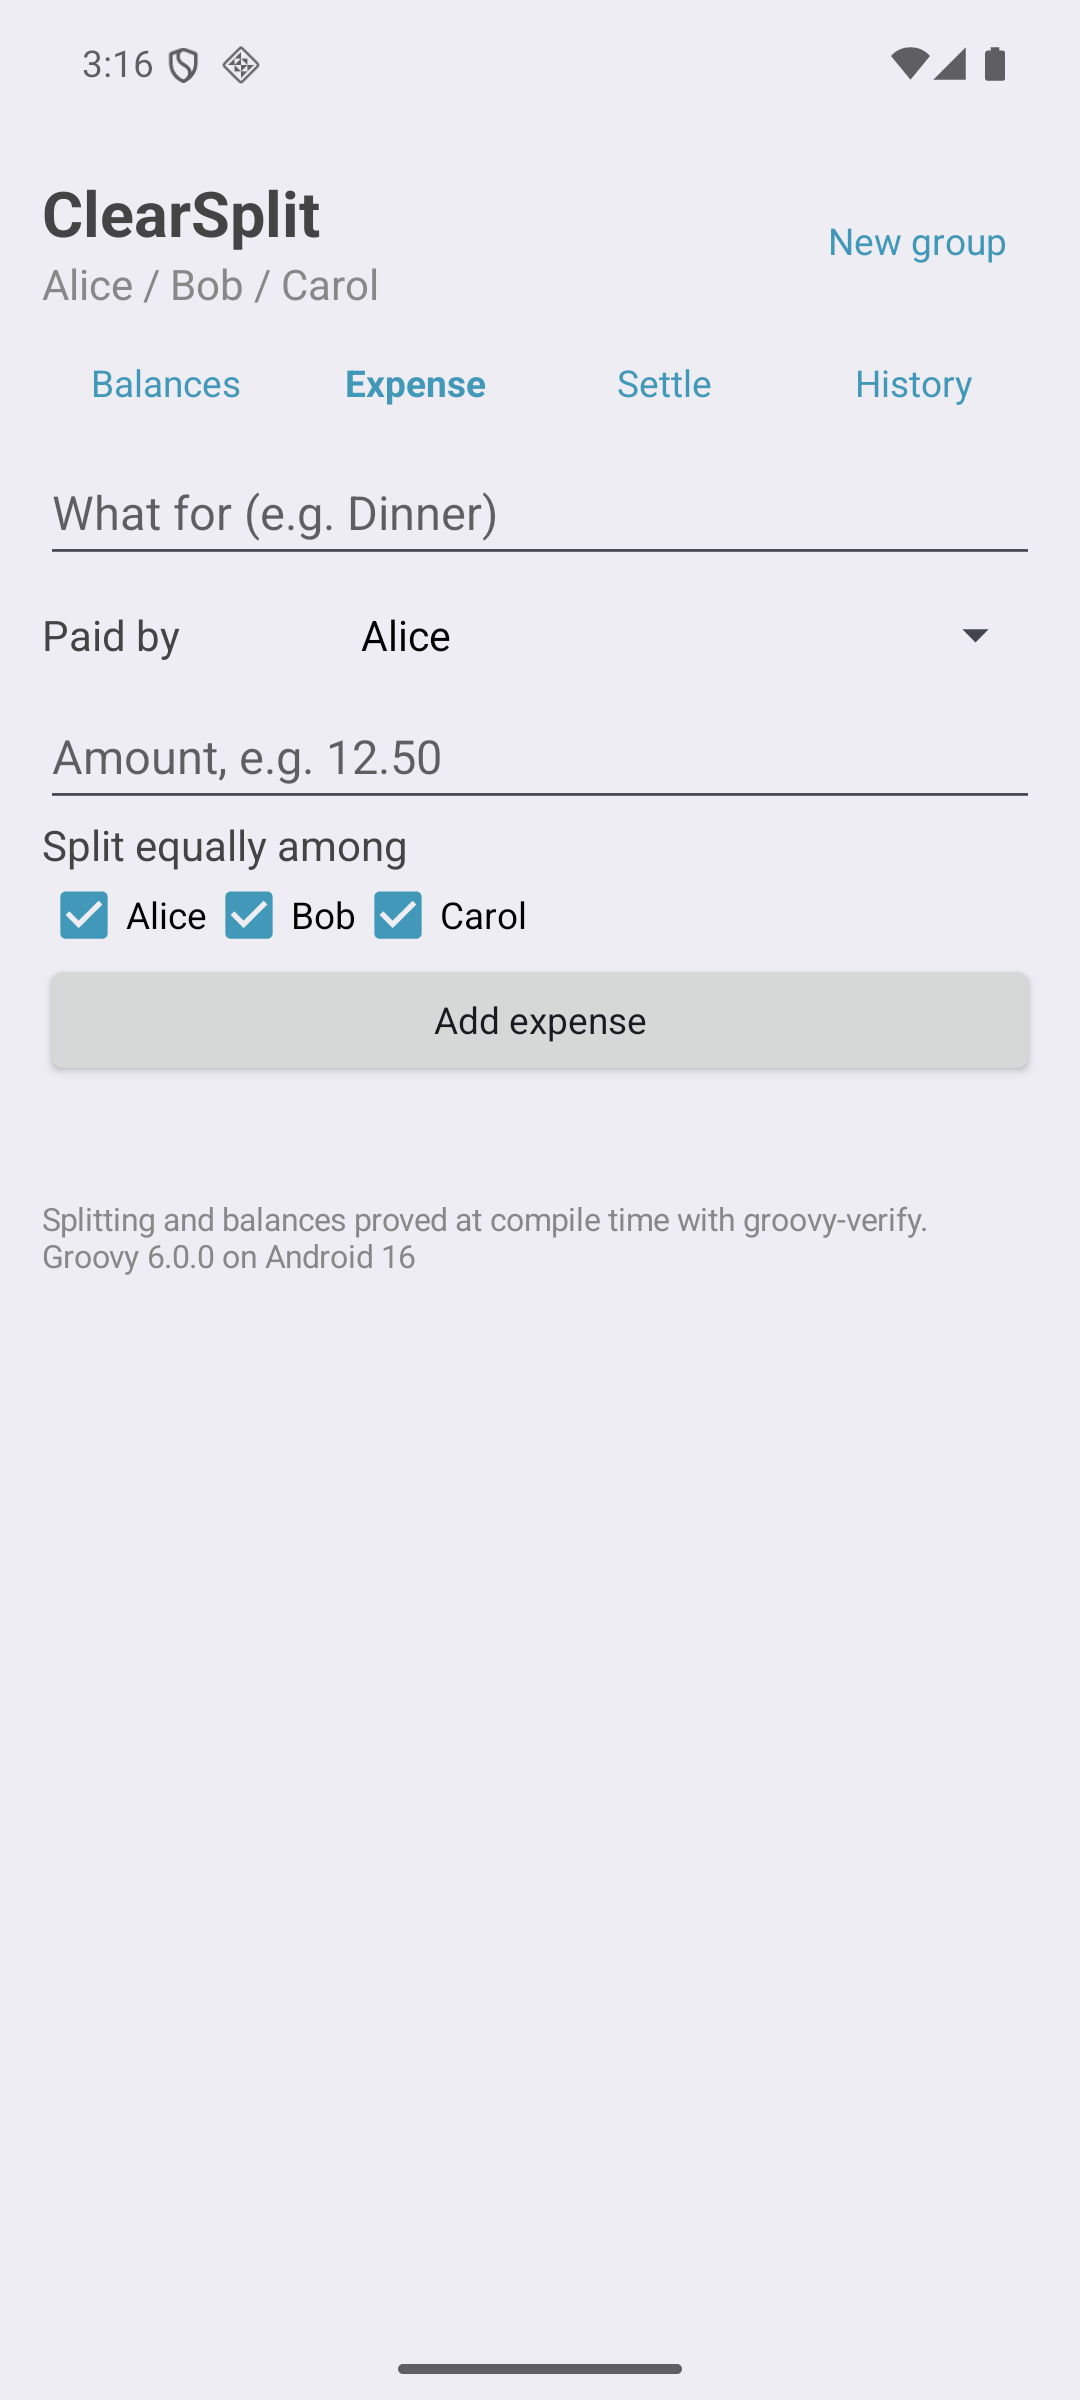
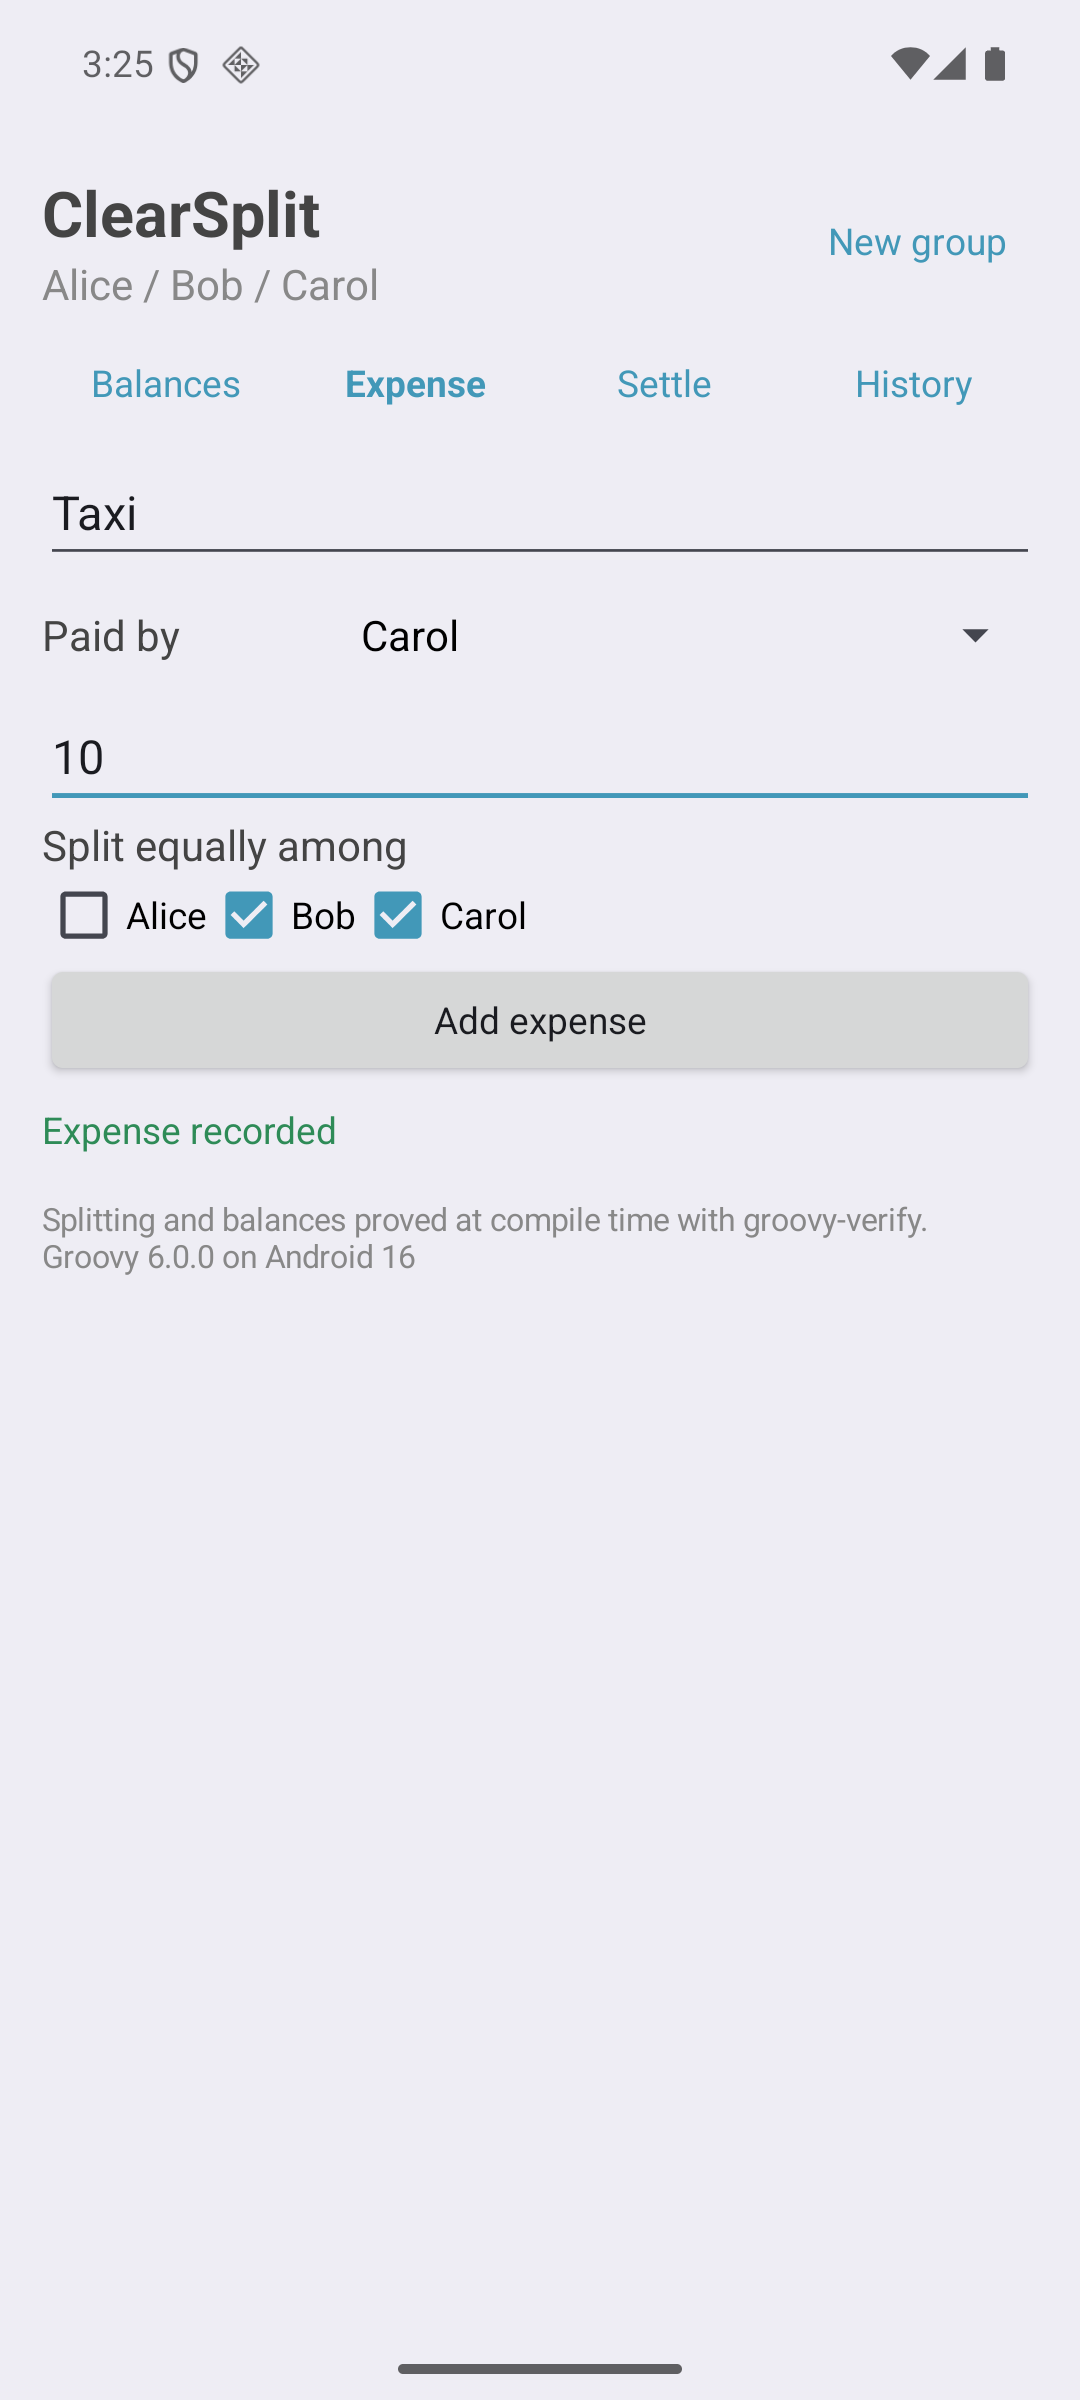
use later groovy-verify version

diff --git a/notes/groovy-verify-findings.md b/notes/groovy-verify-findings.md
@@ -1,6 +1,6 @@
 # groovy-verify findings from the ClearSplit port
 
-Found while proving the ClearSplit kernel, last checked against groovy-verify `ab2ac99`. Each repro
+Found while proving the ClearSplit kernel, checked against groovy-verify `ab2ac99`, and re-tested against `bf7b4eb` (items 1 and 2) `b0c7c4d` (item 3) and `5e29afb` (item 4). Each repro
 in `groovy-verify-repros/` is a standalone class: drop it into `core/src/main/groovy/clearsplit/`
 and compile.
 
@@ -12,8 +12,26 @@ across `v = bump(v)`. Outside a loop (`m5`) the same call is handled correctly.
 
 It surfaced as a vacuous proof. ClearSplit's conservation theorem, written as a fold
 `bal = afterExpenseRow(bal, …)`, still verified with its key hypothesis (each expense's shares add
-up to its amount) deleted. The kernel now folds in place without calls, and the mutation is
-correctly rejected.
+up to its amount) deleted. The kernel was rewritten to fold in place without calls, which
+rejected the mutation correctly, until the fixes below let it go back to the fold.
+
+**Fixed in groovy-verify `fb5ce5f`** ("a re-assigned array holds the new array"). Re-tested there:
+`m4` and `m5` are now reported (undecided, as `Could not decide … (solver: timeout)`, since the
+`.sum()` axioms are beyond the solver), and the rebuilt fold no longer verifies with its key
+hypothesis deleted. The fold with the hypothesis kept was also undecided there.
+
+**Completed in `bf7b4eb`** ("a sum fold over a call proves"). It fixed two causes: `new int[m]`'s
+zero sum needed induction, and a call's `result` clashed with a callee formal of the same name.
+`FoldConservation.groovy` now behaves as it should: `afterExpenseRow` and `foldWith` prove, while
+`foldWithout` (key hypothesis deleted) is reported rather than proved. The verified core is
+unchanged there. `Balances.of` is now the fold again, over `afterExpense` and `afterSettlement`,
+and still rejects the mutation.
+
+The clash was itself a soundness bug: when a contract related `result` to a same-named formal
+(`xs = grow(xs)`, or a local named like the formal), the assumption became a contradiction and
+everything after the call proved. It affected lists since groovy-verify Phase 225, and arrays from
+`fb5ce5f`. The ClearSplit core never had that shape: none of its verified methods calls another
+contracted method.
 
 ## 2. Completeness: an array field passed as an argument loses its length
 
@@ -23,13 +41,52 @@ callee's `a.size()` isn't tied to the field's `length`. Passing `this.data` or a
 the same way. ClearSplit's original mutable `Ledger` (class invariant `balances.sum() == 0`)
 couldn't call its pure step functions because of this.
 
+**Fixed in `768fe5f`** (class invariants at call sites, `this.f` arguments). Re-tested at
+`bf7b4eb`: all three calls now discharge `bump`'s precondition. Because `data` is re-assigned from
+the call, the exit invariant's `data != null` then needs `bump` to promise
+`result != null`; with that in its `@Ensures`, the repro compiles clean.
+
 ## 3. Completeness: a quantifier plus a sum in one callee precondition times out
 
 `QuantifierPlusSumCallSite.groovy`. A callee requiring `(0..<xs.length).every { xs[it] == 0 || xs[it] == 1 }`
 discharges, and one requiring `m <= xs.sum()` discharges, but `handOut`, requiring both, times out
 at a call site whose caller assumes exactly the same quantifier. The same mix proves fine as a
-loop invariant. This is why `Split.equally` is two loops in one method rather than two contracted
-helpers.
+loop invariant. This is why `Split.equally` was, for a while, two loops in one method rather than
+two contracted helpers.
+
+The repro is standalone (it includes the original `handOut`). At `bf7b4eb`, `handOut` itself
+proved, and only the call in `c` failed: `Could not decide precondition of handOut at this call
+site (… incomplete quantifiers)`. The cause was that no element bound ever reached a sum:
+`joined.sum() >= 0` from the 0/1 quantifier needs induction.
+
+**Fixed in `b0c7c4d`** ("an element bound bounds the sum"). An `every` that bounds each element by
+constants now bounds every sum over a range of the array. Re-tested there: the repro compiles
+clean. It still has teeth: calling `handOut(shares, joined, 1)` needs `1 <= joined.sum()`, which
+the 0/1 bound doesn't give, and that call is reported, not proved.
+`Split.equally` is back to calling `baseShares` and `handOut`.
+
+## 4. Completeness: a call's precondition times out where the same assert proves
+
+`RowThenCall.groovy`. The fold first copies each expense's shares out of the flattened array
+with a contracted `row(flat, off[e], members)`, then calls `afterExpense(bal, p, amount[e], owed)`.
+An `assert` stating that call's whole precondition, just before it, proves. The call itself is
+`Could not decide precondition of afterExpense at this call site (solver: timeout)`. Renaming the
+locals, the caller's parameters, or dropping `afterExpense`'s quantified postcondition made no
+difference. Having `afterExpense` read its shares from `flat` at an offset instead (no `row`)
+proved, so `Balances.of` used that shape for a while.
+
+**Fixed in `5e29afb`** ("a call in a loop sees the calls before it"). A call's precondition inside
+an annotated loop was checked by replaying the loop body up to the call, without applying the
+contracts of earlier calls, so `owed` knew nothing. Re-tested there: the repro compiles clean, and
+`Balances.of` is back to `row` plus `afterExpense(bal, payer[e], amount[e], shares)`, with no
+stepping-stone assert.
+
+## 5. Flaky: a call precondition timed out intermittently at `01c8f8d`
+
+After groovy-verify's range rework (`01c8f8d`), `equally`'s call to `handOut` timed out in 3 of 8
+clean compiles, against none at `b0c7c4d`. The folded range bound had become `joined.length + 0`,
+a different term from the facts' `joined.length`. Fixed in `5e29afb`: 5 of 5 clean compiles pass,
+at about 46 s each.
 
 ## Smaller observations
 

diff --git a/README.md b/README.md
@@ -24,7 +24,7 @@ so the web app uses Grails 9, which is.
 | `Split.equally(total, joined)` | the shares add up to `total` exactly; non-participants pay 0; each participant pays `total.intdiv(p)` or one cent more |
 | `Balances.afterExpense` | each member's balance moves by exactly `(payer ? amount : 0) - share` (Dafny's `AddExpenseDelta`), and the total is unchanged when the shares add up to the amount |
 | `Balances.afterSettlement` | `from` gains, `to` loses, everyone else is unchanged (`AddSettlementDelta`), and the total is unchanged |
-| `Balances.of(...)` | **conservation**: after any valid history of expenses and settlements, the balances sum to zero |
+| `Balances.of(...)` | **conservation**: folding `afterExpense` and `afterSettlement` over any valid history, the balances sum to zero |
 
 Each proof was also checked for teeth: breaking the code or dropping a hypothesis makes the build
 fail. For example, giving the leftover cent to the next member regardless of whether they joined
@@ -45,7 +45,8 @@ one soundness bug, each with a repro.
 ## Building and running
 
 Needs JDK 21+ (Gradle runs on 21, groovy-verify builds with a 25 toolchain), plus a
-groovy-verify checkout next to this one (`../groovy-verify`, or `-PgroovyVerifyDir=...`).
+groovy-verify checkout next to this one (`../groovy-verify`, or `-PgroovyVerifyDir=...`) at
+`5e29afb` or later: the kernel's helper calls and its fold need fixes from there.
 groovy-fx is extracted from the `groovy11434` branch of a local apache/groovy clone
 (`-PgroovyRepo=...`, default `~/projects/groovy`), or cloned from GitHub when there is none.
 
